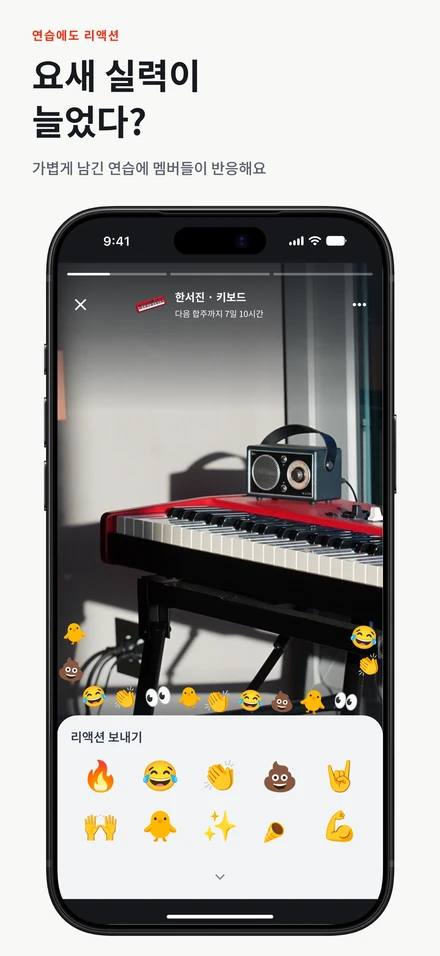
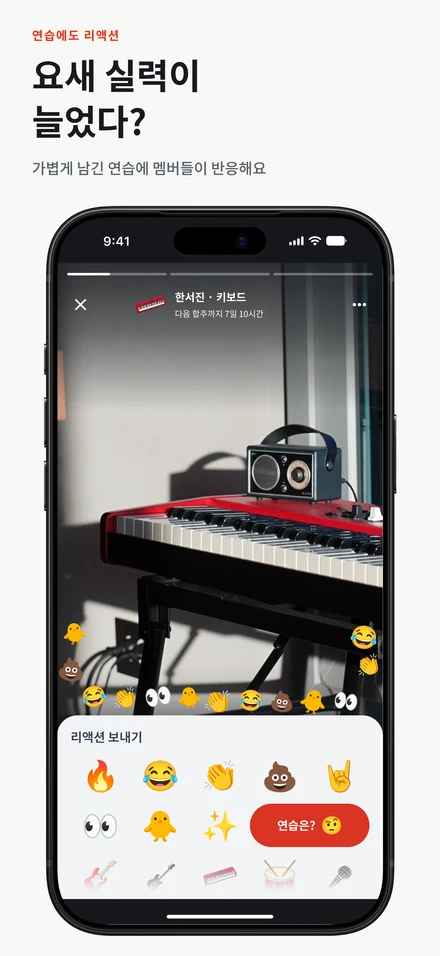
밴드로그 소개 이미지를 최신 스토어 Ready r2로 교체

diff --git a/index.html b/index.html
@@ -215,15 +215,15 @@
             <figure class="gallery-shot">
               <a
                 class="shot-link"
-                href="assets/bandlog/iphone-01-home-880.webp"
+                href="assets/bandlog/iphone-01-home-880.webp?v=20261012-r2"
                 aria-label="나의 연습과 우리 밴드 화면 확대"
                 data-caption="나의 연습과 우리 밴드"
               >
                 <img
-                  src="assets/bandlog/iphone-01-home-880.webp"
+                  src="assets/bandlog/iphone-01-home-880.webp?v=20261012-r2"
                   srcset="
-                    assets/bandlog/iphone-01-home-440.webp 440w,
-                    assets/bandlog/iphone-01-home-880.webp 880w
+                    assets/bandlog/iphone-01-home-440.webp?v=20261012-r2 440w,
+                    assets/bandlog/iphone-01-home-880.webp?v=20261012-r2 880w
                   "
                   sizes="(max-width: 680px) 76vw, (max-width: 1100px) 280px, 240px"
                   alt="개인 연습 기록과 참여 중인 밴드를 함께 보는 홈 화면"
@@ -249,15 +249,15 @@
             <figure class="gallery-shot">
               <a
                 class="shot-link"
-                href="assets/bandlog/iphone-02-song-bundle-880.webp"
+                href="assets/bandlog/iphone-02-song-bundle-880.webp?v=20261012-r2"
                 aria-label="함께 고르는 합주곡 화면 확대"
                 data-caption="함께 고르는 합주곡"
               >
                 <img
-                  src="assets/bandlog/iphone-02-song-bundle-880.webp"
+                  src="assets/bandlog/iphone-02-song-bundle-880.webp?v=20261012-r2"
                   srcset="
-                    assets/bandlog/iphone-02-song-bundle-440.webp 440w,
-                    assets/bandlog/iphone-02-song-bundle-880.webp 880w
+                    assets/bandlog/iphone-02-song-bundle-440.webp?v=20261012-r2 440w,
+                    assets/bandlog/iphone-02-song-bundle-880.webp?v=20261012-r2 880w
                   "
                   sizes="(max-width: 680px) 76vw, (max-width: 1100px) 280px, 240px"
                   alt="합주곡을 묶고 멤버들과 의견을 나누는 화면"
@@ -283,15 +283,15 @@
             <figure class="gallery-shot">
               <a
                 class="shot-link"
-                href="assets/bandlog/iphone-03-encouragement-880.webp"
+                href="assets/bandlog/iphone-03-encouragement-880.webp?v=20261012-r2"
                 aria-label="서로에게 보내는 응원 화면 확대"
                 data-caption="서로에게 보내는 응원"
               >
                 <img
-                  src="assets/bandlog/iphone-03-encouragement-880.webp"
+                  src="assets/bandlog/iphone-03-encouragement-880.webp?v=20261012-r2"
                   srcset="
-                    assets/bandlog/iphone-03-encouragement-440.webp 440w,
-                    assets/bandlog/iphone-03-encouragement-880.webp 880w
+                    assets/bandlog/iphone-03-encouragement-440.webp?v=20261012-r2 440w,
+                    assets/bandlog/iphone-03-encouragement-880.webp?v=20261012-r2 880w
                   "
                   sizes="(max-width: 680px) 76vw, (max-width: 1100px) 280px, 240px"
                   alt="밴드 멤버에게 이모지로 가볍게 반응을 보내는 화면"
@@ -317,15 +317,15 @@
             <figure class="gallery-shot">
               <a
                 class="shot-link"
-                href="assets/bandlog/iphone-04-hapju-880.webp"
+                href="assets/bandlog/iphone-04-hapju-880.webp?v=20261012-r2"
                 aria-label="한곳에 모인 합주 준비 화면 확대"
                 data-caption="한곳에 모인 합주 준비"
               >
                 <img
-                  src="assets/bandlog/iphone-04-hapju-880.webp"
+                  src="assets/bandlog/iphone-04-hapju-880.webp?v=20261012-r2"
                   srcset="
-                    assets/bandlog/iphone-04-hapju-440.webp 440w,
-                    assets/bandlog/iphone-04-hapju-880.webp 880w
+                    assets/bandlog/iphone-04-hapju-440.webp?v=20261012-r2 440w,
+                    assets/bandlog/iphone-04-hapju-880.webp?v=20261012-r2 880w
                   "
                   sizes="(max-width: 680px) 76vw, (max-width: 1100px) 280px, 240px"
                   alt="다음 합주의 일정과 장소, 준비 정보를 확인하는 화면"
@@ -351,15 +351,15 @@
             <figure class="gallery-shot">
               <a
                 class="shot-link"
-                href="assets/bandlog/iphone-05-practice-reactions-880.webp"
+                href="assets/bandlog/iphone-05-practice-reactions-880.webp?v=20261012-r2"
                 aria-label="기록으로 이어지는 연습 화면 확대"
                 data-caption="기록으로 이어지는 연습"
               >
                 <img
-                  src="assets/bandlog/iphone-05-practice-reactions-880.webp"
+                  src="assets/bandlog/iphone-05-practice-reactions-880.webp?v=20261012-r2"
                   srcset="
-                    assets/bandlog/iphone-05-practice-reactions-440.webp 440w,
-                    assets/bandlog/iphone-05-practice-reactions-880.webp 880w
+                    assets/bandlog/iphone-05-practice-reactions-440.webp?v=20261012-r2 440w,
+                    assets/bandlog/iphone-05-practice-reactions-880.webp?v=20261012-r2 880w
                   "
                   sizes="(max-width: 680px) 76vw, (max-width: 1100px) 280px, 240px"
                   alt="연습 비하인드를 사진과 영상으로 보고 리액션을 보내는 화면"

diff --git a/ASSET_PROVENANCE.md b/ASSET_PROVENANCE.md
@@ -53,19 +53,19 @@ Avoid: gradients, shadows, 3D, perspective depth, texture, paper grain, noise, g
 
 ## 2026-10-12 Bandlog 제품 화면
 
-- 원본 저장소: `naroworks/bandlog`, 확인 checkout SHA `c2d9c458763618a4e2713b8d3c19c839d7db61c`
-- 승인 정보: `docs/delivery/store-assets/manifest.json`, 2026-10-09 승인, source SHA `77ac7ffb5ef558992ff8cfdc74b638069854bf77`
+- 원본 저장소: `naroworks/bandlog`, merge SHA `fbfa3a060a4e27adbb99bedffdb4cb52d697cfc1` (PR #1074)
+- 승인 정보: `docs/delivery/store-assets/manifest.json`, 2026-10-12 사용자 교체·공개 배포 요청, 시각 source SHA `1ab19c75321c1f09a6a420bd1c081a15a5e52071`, 고정 Ready r2 `2103:511`
 - [Figma 원본](https://www.figma.com/design/hkc0GBpkjsdaYOqaZyxbBb?node-id=1496-96), page `1537:187`, section `1496:96`
 - 원본 PNG 1320×2868의 문구·그림·순서·종횡비를 유지하고 440px·880px 폭의 WebP로 비례 축소했다. Pillow LANCZOS, quality 88, method 6을 사용했다.
 - 원본 파일은 `docs/delivery/store-assets/app-store/iphone/`이며 파생본은 `assets/bandlog/`에 있다. 내보내기 전에 원본 SHA-256이 manifest와 일치하는지 확인했다.
 
 | 원본 파일                        | Figma node | 원본 SHA-256                                                     |
 | -------------------------------- | ---------- | ---------------------------------------------------------------- |
-| iphone-01-home.png               | 1497:92    | acb84567bee1aa88d15267d713c02eb7f6f37343d0814c573caf3bb3f221cf3e |
-| iphone-02-song-bundle.png        | 1497:879   | 34f4719f4024e51bbf8be2b801a1263c709479890725a4523c75aefca224256e |
-| iphone-03-encouragement.png      | 1497:540   | 02f31e0a924ff71f9458c2f85b45e2b1b18928ff432c178bc1de139d88fee96f |
-| iphone-04-hapju.png              | 1497:653   | 88d9ea792775a51ded638c52262d939de6fd97e40203802787329ccad2ee2f08 |
-| iphone-05-practice-reactions.png | 1497:1028  | 268a12b99fa12334624906c93f55b57a08c8d6135b98821bbd58e42640713408 |
+| iphone-01-home.png               | 1497:92    | a1e8b5640cd994425a59c1f1cd824af8328b9743af05c2f3757bdc21bdbbc9a1 |
+| iphone-02-song-bundle.png        | 1497:879   | 6523d4c5122ee97addf2970db0202677694f4b7d831e40d29e1ae6ad159cd9b7 |
+| iphone-03-encouragement.png      | 1497:540   | 854e950cb02c444e613ffba51f0f0889c7c395f65ebd198ba8619c3e20169d77 |
+| iphone-04-hapju.png              | 1497:653   | 83bdbc1bcc5ce6680e62922682aa70dabada25ebc8933cae0e2d89f8fa3b03a7 |
+| iphone-05-practice-reactions.png | 1497:1028  | 59829dda5feebd577c6d95b51362dba0d671144ed1c23058d81f112f1b9f9ea8 |
 
 밴드로그 symbol은 같은 source의 `docs/design/assets/brand/symbol/bandlog-symbol-transparent.png`를 156×156 lossless WebP로 비례 축소했다. 제품 설명은 해당 저장소의 `docs/product/product-brief.md`를 따른다.
 
@@ -78,3 +78,5 @@ Avoid: gradients, shadows, 3D, perspective depth, texture, paper grain, noise, g
 - 실제 다운로드 badge로 표시하지 않고 스토어 이름과 `준비 중`을 함께 표시한다. 공개 링크는 이번 PR에 추가하지 않는다.
 
 이전 `hero-background.jpg`는 기존 홈페이지 이력을 위한 자산으로 남겨 두며 개편 화면에서는 사용하지 않는다.
+
+2026-10-12 후속 최신화: 카드 B2/3%·홈 이모지 A·상시 선택 패널과 묶음 사진 clipping 보정본을 동일한 WebP 파생 규격으로 교체했다. 기존 카피·순서·홈페이지 layout을 유지했다. 이미지 URL의 `v=20261012-r2`는 교체된 자산을 브라우저 캐시와 구분한다.
